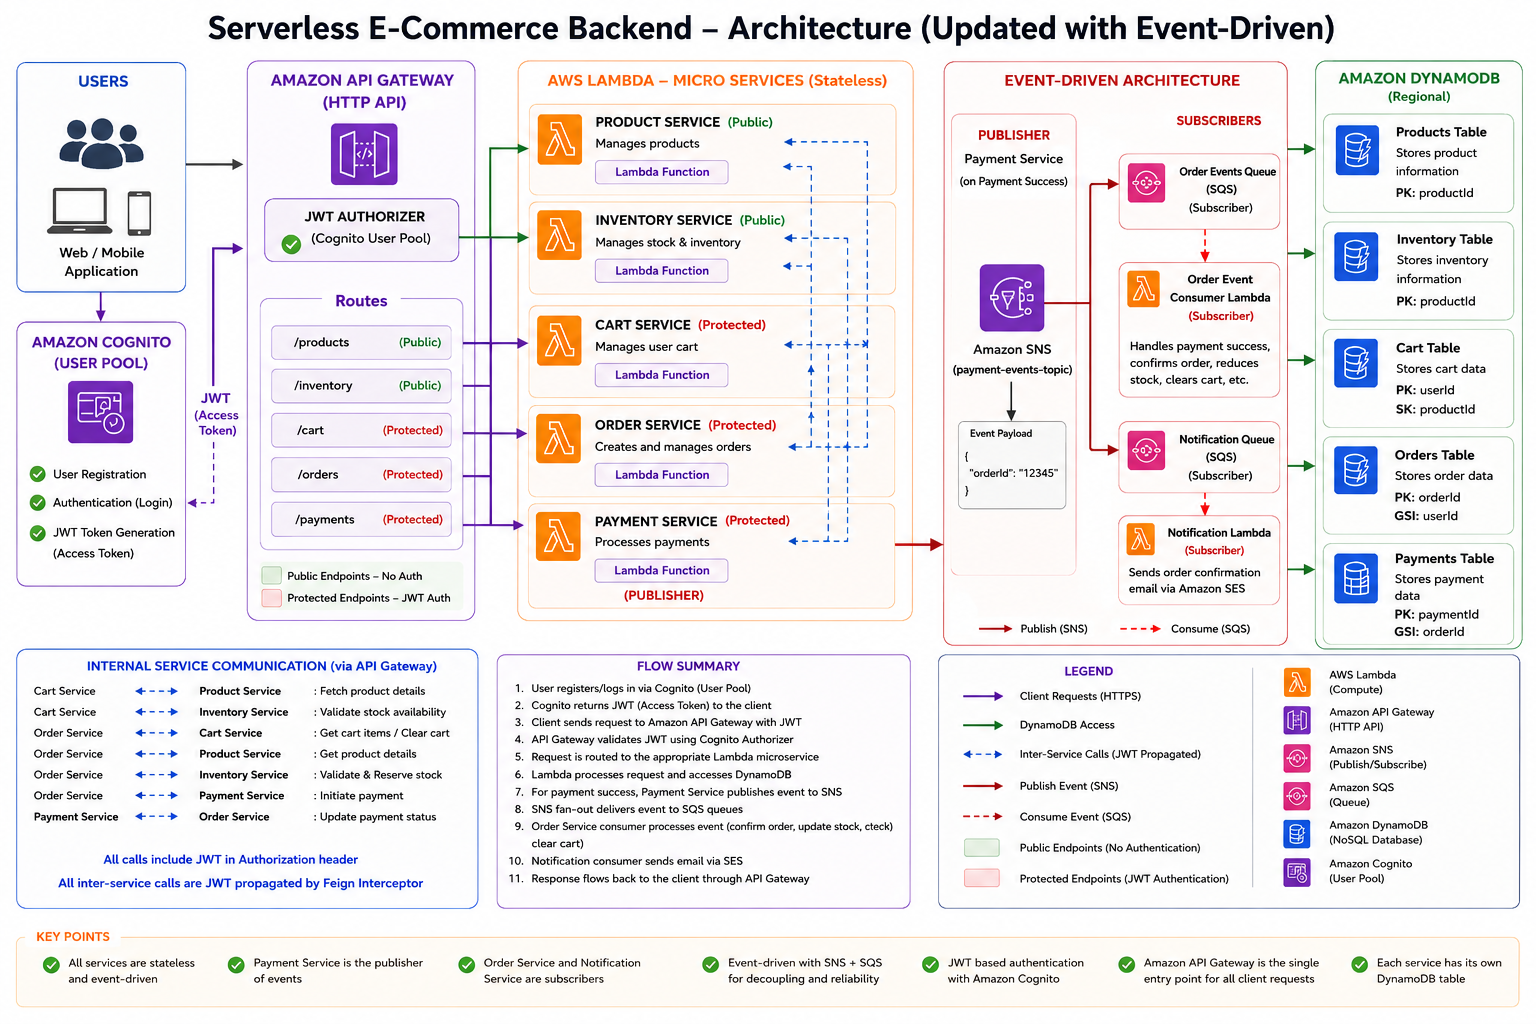
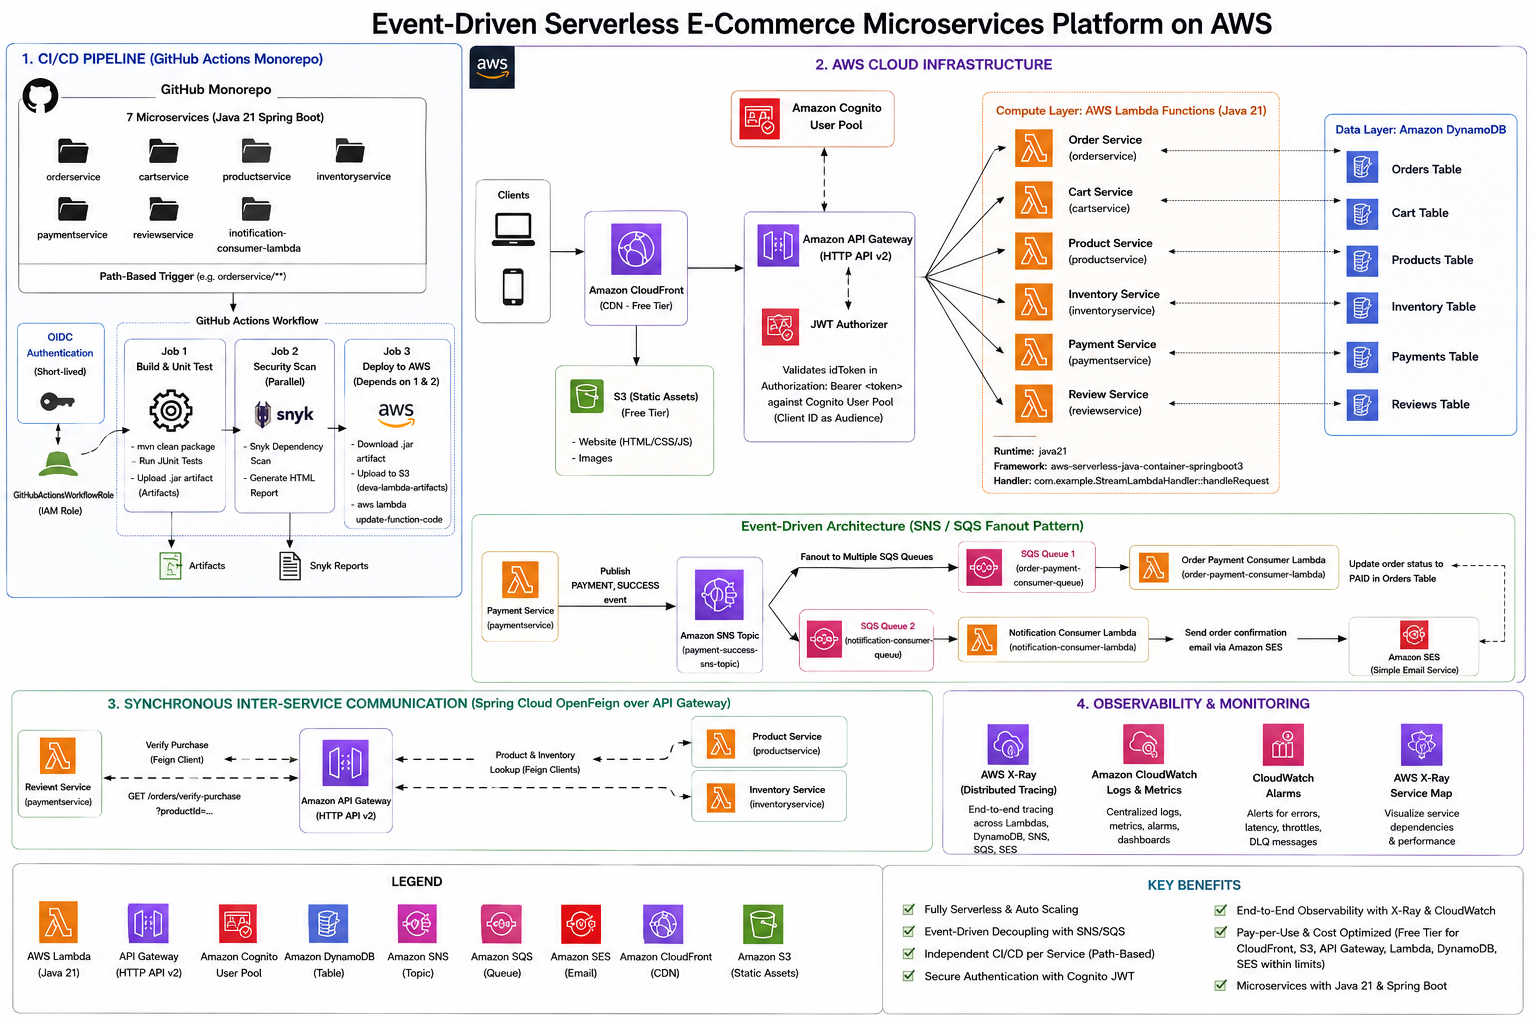
docs: update architecture.png with high-resolution complete system diagram and update README.md

Changed region(s): [[0.0, 0.0, 1.0, 1.0]]

diff --git a/README.md b/README.md
@@ -18,46 +18,49 @@ https://dhvfhexmyhpvv.cloudfront.net/
 
 ## Tech Stack
 
-### Backend
+### Backend & Microservices
 
 - Java 21
 - Spring Boot 3.2.5
 - Spring Data
-- OpenFeign
+- OpenFeign (Inter-service communication)
 - Lombok
-- REST APIs
 - Maven
 
-### Cloud Services
+### Cloud & Serverless Infrastructure (AWS)
 
-- AWS Lambda
-- Amazon API Gateway (HTTP API)
+- AWS Lambda Functions (Java 21 `StreamLambdaHandler`)
+- Amazon API Gateway (HTTP API v2)
 - Amazon DynamoDB (Enhanced Client)
-- Amazon Cognito
-- Amazon SNS
-- Amazon SQS
-- Amazon SES
-- Amazon S3 (Presigned URLs)
-- Amazon CloudFront
-- AWS IAM
+- Amazon Cognito User Pool (JWT Authorizer)
+- Amazon SNS (Event Publishing)
+- Amazon SQS (Asynchronous Event Consumer Queues)
+- Amazon SES (Order Email Notifications)
+- Amazon S3 (Deployment Artifacts & Image Uploads)
+- Amazon CloudFront (CDN)
+- AWS X-Ray (Distributed Tracing & Service Maps)
+- AWS IAM (Short-lived OIDC Role Authentication)
 
-### Deployment
+### CI/CD & Security
 
-- aws-serverless-java-container (Spring Boot 3)
-- Maven Shade Plugin (Fat JAR packaging)
+- GitHub Actions Monorepo Workflows
+- Multi-Job DAG Pipelines (`Build & Test`, `Security Scan`, `Deploy to AWS`)
+- Snyk Vulnerability & Dependency Scanning
+- Maven Shade Plugin (Fat JAR Packaging)
 
 ---
 
 ## Microservices
 
-| Service | Responsibility |
-|---------|---------------|
-| Product | Product Management, S3 Image Upload |
-| Inventory | Stock Management |
-| Cart | Shopping Cart |
-| Order | Order Processing, Payment Event Publishing |
-| Payment | Payment Processing, SNS Event Publishing |
-| Notification | Email Notifications via SES |
+| Service | Responsibility | Database Table |
+|---------|---------------|----------------|
+| **Product** | Product Catalog & Management, S3 Image Upload | `Products` |
+| **Inventory** | Stock Level Management & Re-stocking | `Inventory` |
+| **Cart** | User Shopping Cart Management | `Cart` |
+| **Order** | Order Creation, Retrieval & Purchase Verification | `Orders` |
+| **Payment** | Payment Processing & SNS Event Publishing | `Payments` |
+| **Review** | Verified Buyer Product Reviews & Summary Aggregation | `reviews` |
+| **Notification** | Event Consumer & Email Dispatch via Amazon SES | — |
 
 ---
 
